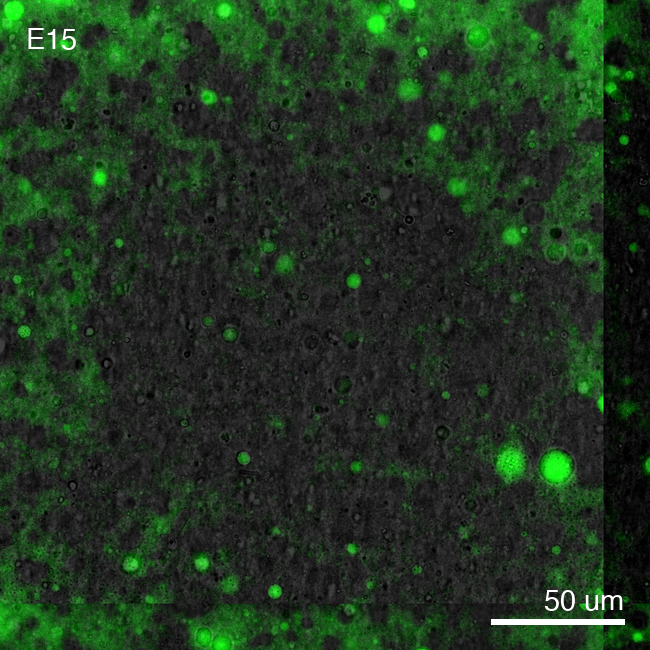
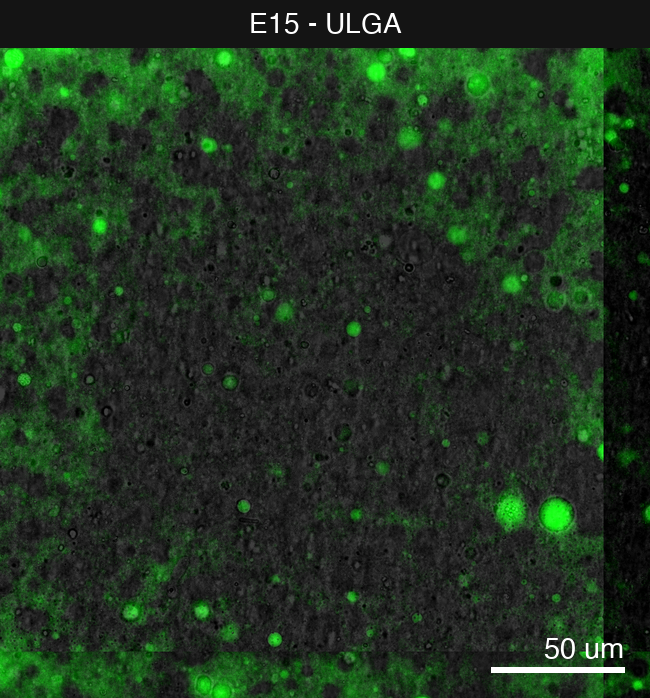
Stitch the four GFP figures into one, group contrast by gel chemistry
Replaces the per-well tab-set with a single composite figure (2x2),
each panel headed by its well label, so the archival record is one
image rather than four navigated by tabs.

Groups GFP contrast where the data supports it rather than keeping it
fully per-well. PEG4Nb's two wells (E14, E21) pool cleanly, their GFP
medians 11130 and 12320. ULGA and LGA (E15, E16) do not: pooled, even
with the high percentile raised to 99.99, E15 (median 8405) washed out
and E16 (median 4158) went almost dark, because E15's whole
distribution sits close to E16's ceiling rather than merely having a
brighter tail. E15 and E16 keep independent stretches instead. The
exact contrast limits for every well are now stated in the figure
caption, not just in the sidecar JSON.

diff --git a/devnotes/devnote-op-20261001-luv-gel-pla/general/render-microscopy-fovs.py b/devnotes/devnote-op-20261001-luv-gel-pla/general/render-microscopy-fovs.py
@@ -1,13 +1,15 @@
 #!/usr/bin/env python3
-"""Render one field of view per well from the OME-Zarr store named in viewers.md.
+"""Render one field of view per well from the OME-Zarr store named in viewers.md,
+and stitch the four into one composite figure.
 
-Writes figures/fov-<well>.png. Run from the DevNote directory:
+Writes figures/fov-<well>.png and figures/fov-composite.png. Run from the
+DevNote directory:
 
     python3 general/render-microscopy-fovs.py
 
 Requires: zarr>=3, numpy, pillow.
 
-Three things this script decides, because the data does not record them.
+Four things this script decides, because the data does not record them.
 
 1. Crop. "One field of view" is taken as a centre crop covering 1/9 of the
    plane's area, that is 1/3 of its width and 1/3 of its height, at full
@@ -16,21 +18,25 @@ Three things this script decides, because the data does not record them.
 
 2. Z-slice. Each store is a 12-plane z-stack. A single slice at the middle
    index (z=6 of 0-11) is rendered, not a projection, so the image is one
-   real plane rather than a composite.
+   real plane rather than a composite of several.
 
-3. Contrast, per well rather than pooled. The pH-sensor DevNote's render
-   script pools one stretch across its wells, because that figure compares
-   signal level between conditions. This figure does not: its only claim is
-   that GFP-expressing GUVs are present in each gel. Measured directly, the
-   four wells' GFP medians span roughly 4100 to 12300, a 3-fold range,
-   consistent with the main page's own report of higher autofluorescence in
-   PEG4Nb than ULGA or LGA. A pooled stretch puts that whole range inside
-   one window, so the dimmer wells render as a near-uniform wash rather
-   than showing the GUVs in them. Each well is stretched from its own 50th
-   to 99.9th percentile instead, which held no pixels at either 0 or 255 in
-   every well checked. Brightfield is stretched from its own 1st to 99th
-   percentile and blended in at 25% weight, for the gel matrix as context,
-   not as a second measurement.
+3. Contrast, grouped only where that holds up. Measured directly, the four
+   wells' GFP medians are E14 11130, E21 12320, E15 8405, E16 4158,
+   consistent with the main page's own report of higher autofluorescence
+   in PEG4Nb than ULGA or LGA. A single stretch pooled across all four
+   puts that whole range in one window and washes the dimmer wells into a
+   near-uniform green. The two PEG4Nb wells (E14, E21) pool cleanly, since
+   their medians are close. E15 and E16 do not: pooling them, even with
+   the high percentile raised to 99.99, left E15 a near-uniform wash and
+   E16 almost dark, because E15's whole distribution sits close to E16's
+   ceiling rather than merely having a brighter tail. E15 and E16 each
+   keep their own one-well stretch. Brightfield stays per-well throughout,
+   since it is shown only as gel-matrix context, not as a second
+   measurement.
+
+4. GROUP_PCT picks the 50th to 99.9th percentile within each group (or
+   each well, for E15 and E16). Checked directly: this holds no pixels at
+   0 or 255 in any of the four.
 
 Channel note: each well's image carries three channels, Brightfield and
 two both labelled "GFP" in the store's own omero metadata, with different
@@ -50,19 +56,31 @@ STORE = (
     'https://data.nucleus.engineering/microscopy/nucleus-bnext-01/'
     'OP-20261006_endpoint-vescile-gel-MB-zstack-E15_2026-10-06_12-58-55.990402.zarr'
 )
-WELLS = [
-    ('E14', 'E/14/0'),
-    ('E15', 'E/15/0'),
-    ('E16', 'E/16/0'),
-    ('E21', 'E/21/0'),
-]
+# name -> (well path, display label, group)
+#
+# PEG4Nb's two wells (E14, E21) pool into one stretch; their GFP medians,
+# 11130 and 12320, are close enough that one window shows both. ULGA and
+# LGA do not: tried pooled at the 50th-99.9th and 50th-99.99th percentile,
+# and both left E15 (median 8405) a near-uniform wash and E16 (median
+# 4158) almost dark, because E15's whole distribution sits close to E16's
+# ceiling rather than merely having a brighter tail. E15 and E16 each keep
+# their own one-well stretch instead.
+WELLS = {
+    'E14': ('E/14/0', 'E14 - PEG4Nb pre-gel', 'PEG4Nb'),
+    'E21': ('E/21/0', 'E21 - PEG4Nb gel', 'PEG4Nb'),
+    'E15': ('E/15/0', 'E15 - ULGA', 'E15'),
+    'E16': ('E/16/0', 'E16 - LGA', 'E16'),
+}
+GRID = [['E14', 'E21'], ['E15', 'E16']]  # composite layout, one row per gel family
+
 Z_INDEX = 6            # middle of 12 planes (0-11)
 CROP_FRACTION = 1 / 3  # linear fraction per side; 1/3 x 1/3 = 1/9 area
 OUT_PX = 650
-GFP_PCT = (50.0, 99.9)
+GROUP_PCT = (50.0, 99.9)
 BRIGHTFIELD_PCT = (1.0, 99.0)
 BRIGHTFIELD_WEIGHT = 0.25
 GFP_COLOR = np.array([0.0, 1.0, 0.0])
+HEADER_PX = 48
 OUTDIR = 'figures'
 
 
@@ -91,14 +109,29 @@ def load(well_path):
     return um_per_px, crop[0], crop[1]
 
 
-def stretch(channel, pct):
-    lo, hi = np.percentile(channel, pct[0]), np.percentile(channel, pct[1])
-    return np.clip((channel - lo) / max(hi - lo, 1), 0, 1), (float(lo), float(hi))
+def stretch(channel, lo, hi):
+    return np.clip((channel - lo) / max(hi - lo, 1), 0, 1)
 
 
-def draw(name, um_per_px, brightfield, gfp):
-    bf_norm, bf_range = stretch(brightfield, BRIGHTFIELD_PCT)
-    gfp_norm, gfp_range = stretch(gfp, GFP_PCT)
+def group_stretch(crops, names, pct):
+    pool = np.concatenate([crops[n][2].ravel() for n in names])
+    lo, hi = np.percentile(pool, pct[0]), np.percentile(pool, pct[1])
+    return float(lo), float(hi)
+
+
+def font(height, scale=0.045):
+    try:
+        return ImageFont.truetype('/System/Library/Fonts/Helvetica.ttc',
+                                   int(height * scale))
+    except OSError:
+        return ImageFont.load_default()
+
+
+def render_panel(label, um_per_px, brightfield, gfp, gfp_lo, gfp_hi):
+    bf_lo, bf_hi = np.percentile(brightfield, BRIGHTFIELD_PCT[0]), \
+        np.percentile(brightfield, BRIGHTFIELD_PCT[1])
+    bf_norm = stretch(brightfield, bf_lo, bf_hi)
+    gfp_norm = stretch(gfp, gfp_lo, gfp_hi)
 
     rgb = np.zeros(gfp.shape + (3,), np.float32)
     rgb += bf_norm[..., None] * BRIGHTFIELD_WEIGHT
@@ -114,37 +147,68 @@ def draw(name, um_per_px, brightfield, gfp):
     bar_px = int(round(bar_um / um_per_px))
     margin = int(width * 0.04)
     bar_h = max(4, int(height * 0.009))
-    try:
-        font = ImageFont.truetype('/System/Library/Fonts/Helvetica.ttc',
-                                  int(height * 0.045))
-    except OSError:
-        font = ImageFont.load_default()
+    f = font(height)
     draw_ctx.rectangle(
         [width - margin - bar_px, height - margin - bar_h,
          width - margin, height - margin], fill=(255, 255, 255))
     text = f'{bar_um} um'
-    box = draw_ctx.textbbox((0, 0), text, font=font)
+    box = draw_ctx.textbbox((0, 0), text, font=f)
     draw_ctx.text(
         (width - margin - (box[2] - box[0]),
          height - margin - bar_h - (box[3] - box[1]) - int(height * 0.018)),
-        text, fill=(255, 255, 255), font=font)
-    draw_ctx.text((margin, margin), name, fill=(255, 255, 255), font=font)
+        text, fill=(255, 255, 255), font=f)
 
-    path = f'{OUTDIR}/fov-{name}.png'
-    img.save(path)
-    return path, bar_um, bf_range, gfp_range
+    # panel header bar with the well's label
+    panel = Image.new('RGB', (width, height + HEADER_PX), (20, 20, 20))
+    header_font = font(HEADER_PX, scale=0.6)
+    header_draw = ImageDraw.Draw(panel)
+    box = header_draw.textbbox((0, 0), label, font=header_font)
+    header_draw.text(
+        ((width - (box[2] - box[0])) / 2, (HEADER_PX - (box[3] - box[1])) / 2 - box[1]),
+        label, fill=(255, 255, 255), font=header_font)
+    panel.paste(img, (0, HEADER_PX))
+    return panel, bar_um
+
+
+def stitch(panels, grid, gap=6, background=(20, 20, 20)):
+    rows = len(grid)
+    cols = len(grid[0])
+    cell_w = max(panels[n].width for row in grid for n in row)
+    cell_h = max(panels[n].height for row in grid for n in row)
+    out = Image.new('RGB',
+                     (cols * cell_w + (cols - 1) * gap,
+                      rows * cell_h + (rows - 1) * gap),
+                     background)
+    for r, row in enumerate(grid):
+        for c, name in enumerate(row):
+            out.paste(panels[name], (c * (cell_w + gap), r * (cell_h + gap)))
+    return out
 
 
 def main():
-    params = {}
-    for name, well_path in WELLS:
-        print(f'loading {name} ...')
-        um_per_px, brightfield, gfp = load(well_path)
-        path, bar_um, bf_range, gfp_range = draw(name, um_per_px, brightfield, gfp)
-        print(f'  {path}  {OUT_PX}x{OUT_PX} px  bar {bar_um} um  '
-              f'brightfield {bf_range[0]:.0f}-{bf_range[1]:.0f}  '
-              f'GFP {gfp_range[0]:.0f}-{gfp_range[1]:.0f}')
-        params[name] = {'brightfield_stretch': bf_range, 'gfp_stretch': gfp_range}
+    crops = {name: load(path) for name, (path, _, _) in WELLS.items()}
+
+    group_names = {}
+    for name, (_, _, group) in WELLS.items():
+        group_names.setdefault(group, []).append(name)
+    group_ranges = {g: group_stretch(crops, names, GROUP_PCT)
+                     for g, names in group_names.items()}
+    print('\ngroup GFP stretch:')
+    for g, (lo, hi) in group_ranges.items():
+        print(f'   {g:10s} {lo:8.0f} -> {hi:8.0f}  (wells: {group_names[g]})')
+
+    panels = {}
+    bar_ums = {}
+    for name, (_, label, group) in WELLS.items():
+        um_per_px, brightfield, gfp = crops[name]
+        lo, hi = group_ranges[group]
+        panels[name], bar_ums[name] = render_panel(label, um_per_px, brightfield, gfp, lo, hi)
+        panels[name].save(f'{OUTDIR}/fov-{name}.png')
+        print(f'  {OUTDIR}/fov-{name}.png  bar {bar_ums[name]} um')
+
+    composite = stitch(panels, GRID)
+    composite.save(f'{OUTDIR}/fov-composite.png')
+    print(f'\n  {OUTDIR}/fov-composite.png  {composite.size[0]}x{composite.size[1]} px')
 
     with open(f'{OUTDIR}/fov-render-params.json', 'w') as handle:
         json.dump({
@@ -152,10 +216,11 @@ def main():
             'z_index': Z_INDEX,
             'crop_fraction': CROP_FRACTION,
             'out_px': OUT_PX,
-            'gfp_percentiles': GFP_PCT,
+            'group_percentiles': GROUP_PCT,
             'brightfield_percentiles': BRIGHTFIELD_PCT,
             'brightfield_weight': BRIGHTFIELD_WEIGHT,
-            'per_well_stretch': params,
+            'groups': group_names,
+            'group_gfp_stretch': group_ranges,
         }, handle, indent=1)
 
 

diff --git a/devnotes/devnote-op-20261001-luv-gel-pla/main.md b/devnotes/devnote-op-20261001-luv-gel-pla/main.md
@@ -491,72 +491,35 @@ deep-linked by well, on [Interactive viewers](./viewers.md). So are the
 solution condition and its control: E12, G12, E14, E15, E16 and E21.
 
 Archival figures for the four gel conditions, one field of view each, are
-below. Each image is a single z-plane, a centre crop covering 1/9 of the
-field's area, with GFP shown at its own 50th-to-99.9th-percentile
-stretch per well, not a stretch shared across wells. Brightfield is
-blended in at low weight for the gel matrix as context. See
+below, stitched into one image with each well's label as its panel
+header. Each panel is a single z-plane, a centre crop covering 1/9 of
+the field's area. Brightfield is blended in at low weight for the gel
+matrix as context.
+
+GFP contrast is grouped where the two wells' signal levels allow it, and
+kept per-well otherwise. The PEG4Nb pre-gel and gel wells (E14, E21)
+share one stretch, 11864 to 20155 counts, since their GFP medians are
+close. ULGA and LGA (E15, E16) do not share a window. E15's whole GFP
+distribution sits close to E16's ceiling. Pooling the two, even with the
+high percentile raised to 99.99, left E15 a near-uniform wash and E16
+almost dark. E15 is stretched at 8405 to 11247 counts, and E16 at 4158
+to 7020 counts, each its own 50th-to-99.9th percentile. See
 `general/render-microscopy-fovs.py` and `figures/fov-render-params.json`
-for the full method and the exact stretch used per well.
+for the full method.
 
-:::::{tab-set}
-
-::::{tab-item} E14 (PEG4Nb pre-gel)
-:sync: e14
-
-:::{figure} ./figures/fov-E14.png
-:label: fig-fov-e14
+:::{figure} ./figures/fov-composite.png
+:label: fig-fov-composite
 :align: center
-:width: 60%
-GFP-GUVs+LUVs in PEG4Nb pre-gel, well E14.
+:width: 85%
+GFP-GUVs+LUVs across the four gel conditions, one field of view each.
+PEG4Nb pre-gel (E14) and PEG4Nb gel (E21) share a GFP stretch of 11864
+to 20155 counts. ULGA (E15) is stretched at 8405 to 11247 counts, and
+LGA (E16) at 4158 to 7020 counts, each on its own. The two wells' GFP
+levels do not share a usable common window. Brightfield is blended in
+at 25% weight as gel-matrix context.
 :::
 
-[`fig-fov-e14`, file:`figures/fov-E14.png`, zarr-viewer, source:`https://data.nucleus.engineering/microscopy/nucleus-bnext-01/OP-20261006_endpoint-vescile-gel-MB-zstack-E15_2026-10-06_12-58-55.990402.zarr/E/14/0`, caption: (GFP-GUVs+LUVs in PEG4Nb pre-gel, well E14.)]
-
-::::
-
-::::{tab-item} E15 (ULGA)
-:sync: e15
-
-:::{figure} ./figures/fov-E15.png
-:label: fig-fov-e15
-:align: center
-:width: 60%
-GFP-GUVs+LUVs in ULGA, well E15.
-:::
-
-[`fig-fov-e15`, file:`figures/fov-E15.png`, zarr-viewer, source:`https://data.nucleus.engineering/microscopy/nucleus-bnext-01/OP-20261006_endpoint-vescile-gel-MB-zstack-E15_2026-10-06_12-58-55.990402.zarr/E/15/0`, caption: (GFP-GUVs+LUVs in ULGA, well E15.)]
-
-::::
-
-::::{tab-item} E16 (LGA)
-:sync: e16
-
-:::{figure} ./figures/fov-E16.png
-:label: fig-fov-e16
-:align: center
-:width: 60%
-GFP-GUVs+LUVs in LGA, well E16.
-:::
-
-[`fig-fov-e16`, file:`figures/fov-E16.png`, zarr-viewer, source:`https://data.nucleus.engineering/microscopy/nucleus-bnext-01/OP-20261006_endpoint-vescile-gel-MB-zstack-E15_2026-10-06_12-58-55.990402.zarr/E/16/0`, caption: (GFP-GUVs+LUVs in LGA, well E16.)]
-
-::::
-
-::::{tab-item} E21 (PEG4Nb gel)
-:sync: e21
-
-:::{figure} ./figures/fov-E21.png
-:label: fig-fov-e21
-:align: center
-:width: 60%
-GFP-GUVs+LUVs in PEG4Nb gel, well E21.
-:::
-
-[`fig-fov-e21`, file:`figures/fov-E21.png`, zarr-viewer, source:`https://data.nucleus.engineering/microscopy/nucleus-bnext-01/OP-20261006_endpoint-vescile-gel-MB-zstack-E15_2026-10-06_12-58-55.990402.zarr/E/21/0`, caption: (GFP-GUVs+LUVs in PEG4Nb gel, well E21.)]
-
-::::
-
-:::::
+[`fig-fov-composite`, file:`figures/fov-composite.png`, zarr-viewer, source:`https://data.nucleus.engineering/microscopy/nucleus-bnext-01/OP-20261006_endpoint-vescile-gel-MB-zstack-E15_2026-10-06_12-58-55.990402.zarr`, caption: (GFP-GUVs+LUVs across the four gel conditions: E14, E21, E15, E16. Contrast limits and grouping in the figure caption above.)]
 
 :::{attention} Each well's store carries a second, unexplained GFP-labelled channel
 :name: gap-second-gfp-channel
